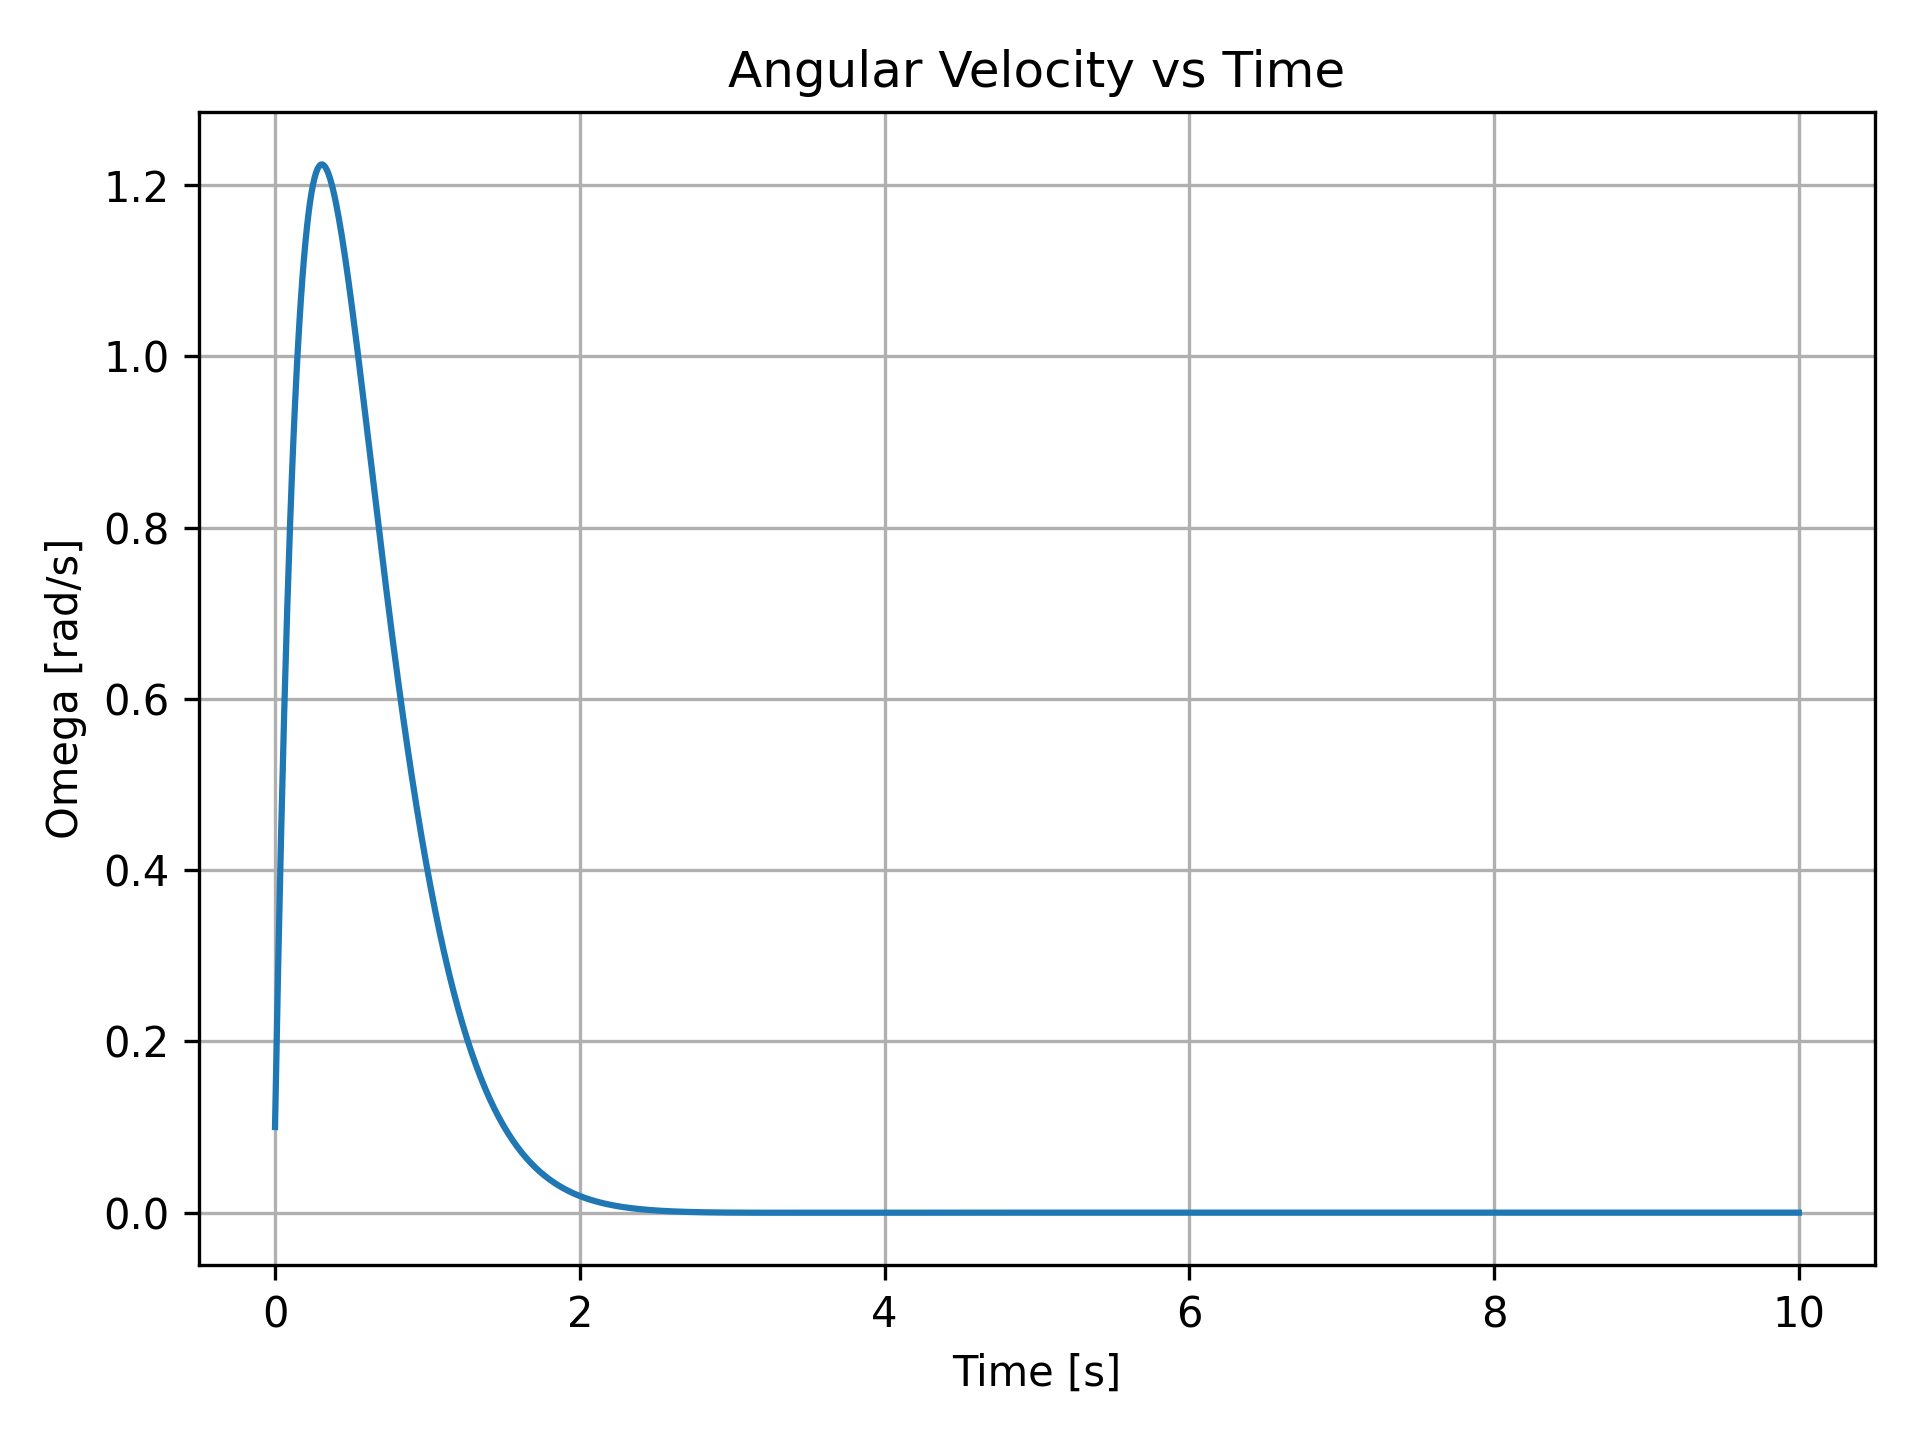
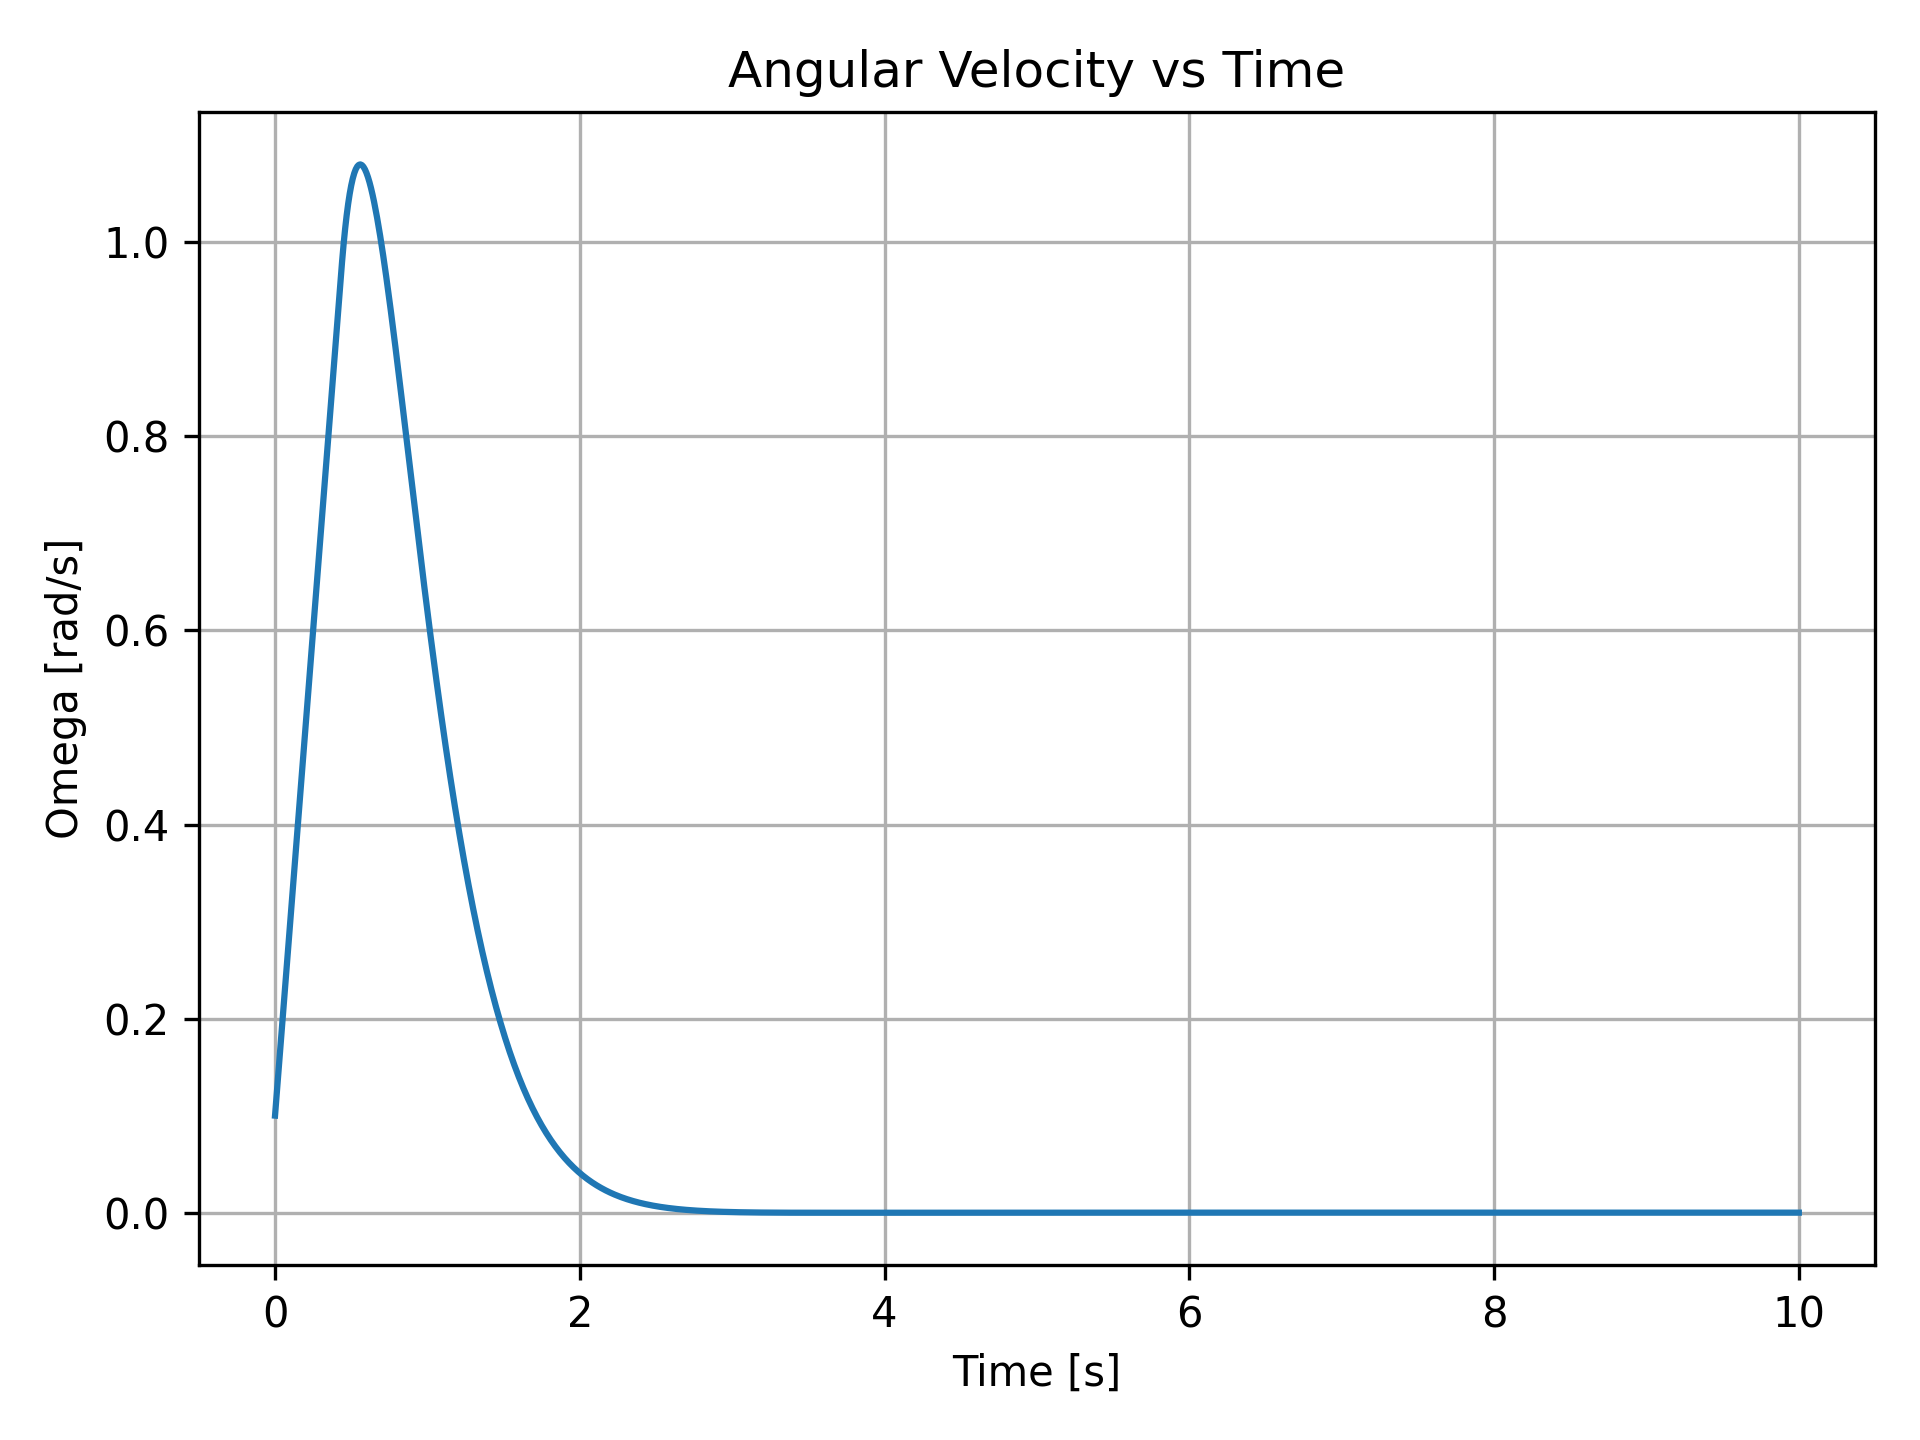
Add torque saturation and actuator limits

diff --git a/src/simulator.py b/src/simulator.py
@@ -7,6 +7,7 @@ Discrete-time implementation of rotational physics using Euler integration.
 
 import numpy as np
 from src.dynamics import compute_angular_acceleration
+from src.config import MAX_TORQUE_NM
 
 
 def run_simulation(
@@ -54,6 +55,12 @@ def run_simulation(
     for k in range(1, len(times)):
         error = theta_target_rad - theta[k - 1]
         torque = kp * error - kd * omega[k - 1]
+
+        # Apply torque saturation
+        if torque > MAX_TORQUE_NM:
+            torque = MAX_TORQUE_NM
+        elif torque < -MAX_TORQUE_NM:
+            torque = -MAX_TORQUE_NM
 
         alpha = compute_angular_acceleration(torque, inertia_kgm2)
 

diff --git a/src/config.py b/src/config.py
@@ -15,3 +15,5 @@ KD = 0.3                  # Derivative gain
 
 DT_S = 0.01               # Simulation time step [s]
 T_FINAL_S = 10.0          # Total simulation time [s]
+
+MAX_TORQUE_NM = 0.1       # Saturation max limitation from actuator
